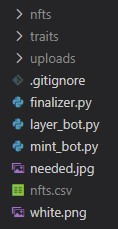
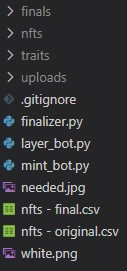
update mint_bot.py w/ finals csv - UNTESTED

diff --git a/mint_bot.py b/mint_bot.py
@@ -14,7 +14,7 @@ from random import choice, shuffle
 from statistics import stdev, mean
 import os, socket, csv, ctypes, win32clipboard, struct, pickle
 
-nfts = []
+finals = []
 layer0Name = 'Containment Field'
 numOfCollections = 1
 collection = 'TinMania!' 
@@ -23,7 +23,7 @@ BUFFER_SIZE = 4096
 
 # --- Setup Functions --- #
 def getListFromFile():
-    with open('nfts.csv', mode = 'r') as nftFile:
+    with open('nfts - final.csv', mode = 'r') as nftFile:
         reader = csv.reader(nftFile, delimiter = ',')
         next(reader)
         for row in reader:
@@ -37,7 +37,7 @@ def getListFromFile():
                 except: 
                     item = x
                 rowData.append(item)
-            nfts.append(rowData)
+            finals.append(rowData)
 
 def titleRow():
     columnTitles = ['NFT No', "File Path", "Name", "Size (KB)", "CRC Value", "NFT ID"]
@@ -85,7 +85,7 @@ def runTimeInfo(pointInTime):
 
 # --- Mint/Upload Functions --- #
 def send_file(sock):
-    pickledList = pickle.dumps(nfts)
+    pickledList = pickle.dumps(finals)
     packedData = struct.pack('>I', len(pickledList)) + pickledList
     sock.send(packedData)
 
@@ -93,7 +93,7 @@ def receive_file(s):
     pickledPackadge = receivePackadge(s)
     if pickledPackadge is not None:
         receivedList = pickle.loads(pickledPackadge)
-        with open('nfts.csv', mode = 'w', newline = '') as dataFile:
+        with open('nfts - final.csv', mode = 'w', newline = '') as dataFile:
             writer = csv.writer(dataFile, delimiter = ',', quotechar='"', quoting=csv.QUOTE_MINIMAL) 
             writer.writerow(columnTitles)
             writer.writerows(receivedList)
@@ -172,7 +172,7 @@ def receivePackadge(s):
 
 def listNFT(nftRow, nftIndex, titles, mint):
     name = nftRow[2]
-    path = os.path.realpath(os.path.join(os.getcwd(), "nfts", name))
+    path = os.path.realpath(os.path.join(os.getcwd(), "finals", name))
     description = nftRow[titles.index('Description')]
     backgroundIndex = titles.index(layer0Name)
     rarityScoreIndex = titles.index('Rarity Score')
@@ -309,25 +309,25 @@ def listNFT(nftRow, nftIndex, titles, mint):
                 contractAddress = path
                 token_id = paths[i+1]
 
-                nfts[nftIndex][contractIndex] = contractAddress
-                nfts[nftIndex][token_idIndex] = token_id
+                finals[nftIndex][contractIndex] = contractAddress
+                finals[nftIndex][token_idIndex] = token_id
 
                 if mint == 'mint':
                     uploadState = 'minted only'
                 else:
                     uploadState = 'yes'
                     
-    nfts[nftIndex][listedIndex] = uploadState
+    finals[nftIndex][listedIndex] = uploadState
 
     pag.hotkey('ctrl', 'w')            
-    if nftIndex != len(nfts) - 1:
+    if nftIndex != len(finals) - 1:
         wb.open('https://opensea.io/asset/create', new = 2)
         sleep(3)
 
     return uploadState
 
 def mintOnOpenSea(columnTitles):
-    current = len(os.listdir("nfts"))
+    current = len(os.listdir("finals"))
     listedIndex = columnTitles.index("Listed on OpenSea?")
     nameIndex = columnTitles.index("Name")
     idIndex = columnTitles.index("NFT ID")
@@ -338,7 +338,7 @@ def mintOnOpenSea(columnTitles):
     ip = getIP()
     towerIP = '192.168.1.3' 
     workIP = '192.168.1.7' # personal is '192.168.1.5' 
-    filename = "nfts.csv"
+    filename = "nfts - final.csv"
 
     sock = socket.socket(socket.AF_INET, socket.SOCK_STREAM)
     s, socketType = initializeSocket(sock, towerIP) # set server (receiving)
@@ -360,7 +360,7 @@ def mintOnOpenSea(columnTitles):
             pcUploadList.append(i)
 
     listed = 0
-    for nftData in nfts:
+    for nftData in finals:
         if nftData[listedIndex] == 'minted only' or nftData[listedIndex] == 'yes':
             listed += 1
     count = round((current - listed) / 2) # half if using two computers to upload
@@ -368,10 +368,10 @@ def mintOnOpenSea(columnTitles):
 
     wb.open('https://opensea.io/asset/create', new=2)
     messageBox() 
-    shuffle(nfts)  
+    shuffle(finals)  
 
     i = listed
-    for nftIndex, nftRow in enumerate(nfts):
+    for nftIndex, nftRow in enumerate(finals):
         mint = ''
         if i >> count: break
         if nftRow[0] not in pcUploadList: continue
@@ -383,7 +383,7 @@ def mintOnOpenSea(columnTitles):
                 uploadState = listNFT(nftRow, nftIndex, columnTitles, mint)
 
             if socketType == 'client':
-                pickledList = pickle.dumps(nfts[nftIndex])
+                pickledList = pickle.dumps(finals[nftIndex])
                 packedData = struct.pack('>I', len(pickledList)) + pickledList
                 sock.send(packedData)
 
@@ -391,14 +391,14 @@ def mintOnOpenSea(columnTitles):
                 pickledPackadge = receivePackadge(s)
                 if pickledPackadge is not None:
                     receivedList = pickle.loads(pickledPackadge)
-                    for nftIndex, nftRow in enumerate(nfts):
+                    for nftIndex, nftRow in enumerate(finals):
                         if receivedList[idIndex] in nftRow:
-                            nfts[nftIndex] = receivedList
+                            finals[nftIndex] = receivedList
 
-                with open('nfts.csv', mode = 'w', newline = '') as dataFile:
+                with open('nfts - finals.csv', mode = 'w', newline = '') as dataFile:
                     writer = csv.writer(dataFile, delimiter = ',', quotechar='"', quoting=csv.QUOTE_MINIMAL) 
                     writer.writerow(columnTitles)
-                    writer.writerows(nfts)
+                    writer.writerows(finals)
                     i += 1
 
     runTimeInfo('upload') 
